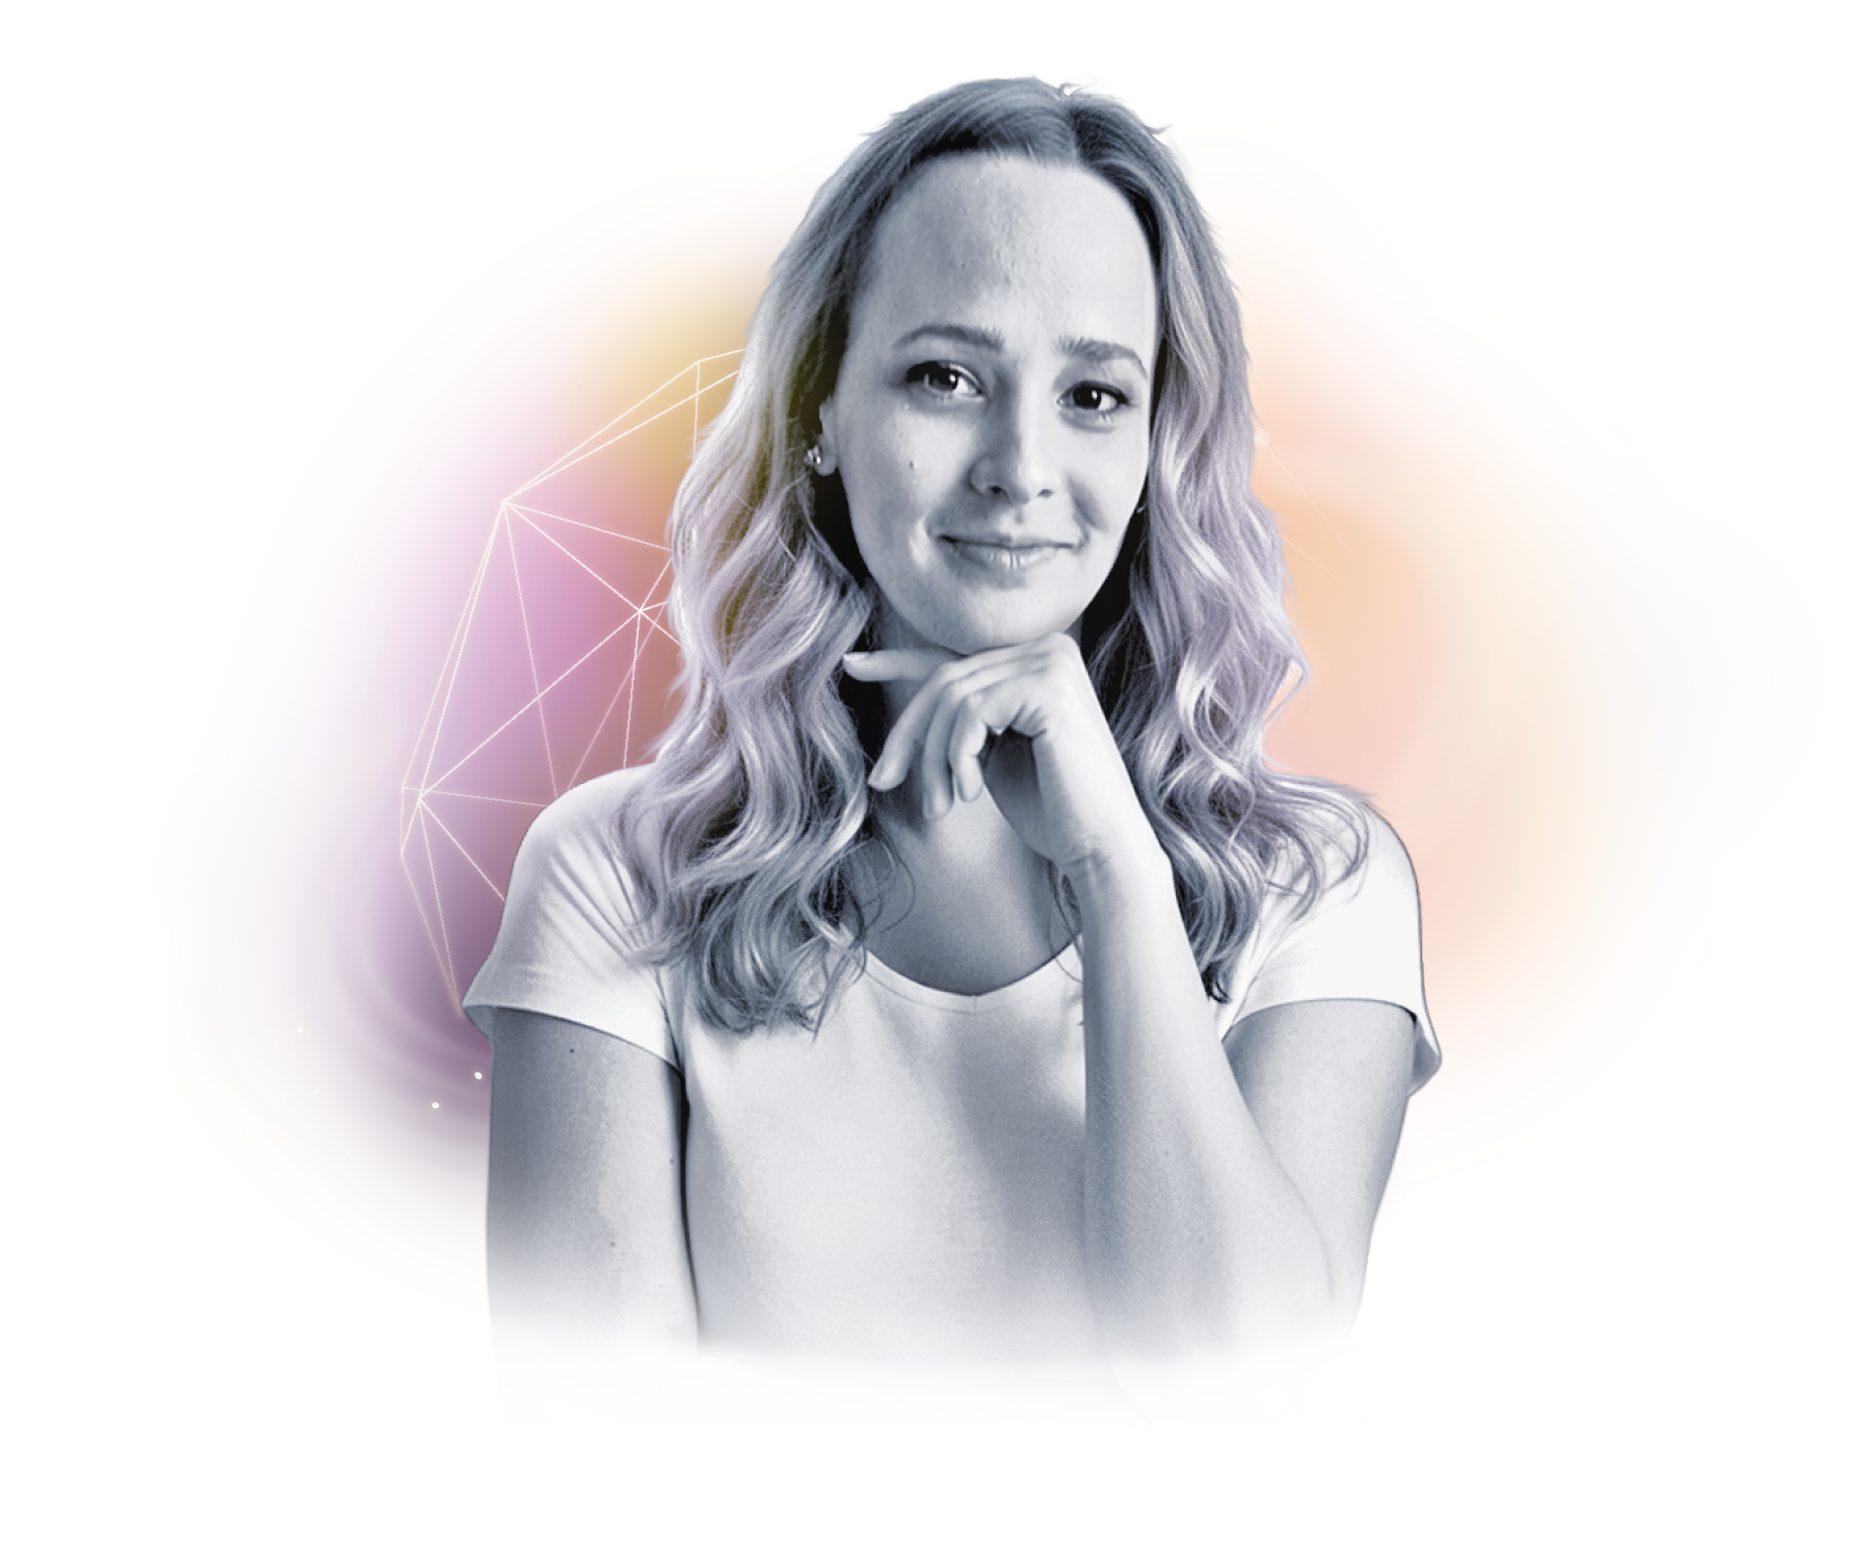
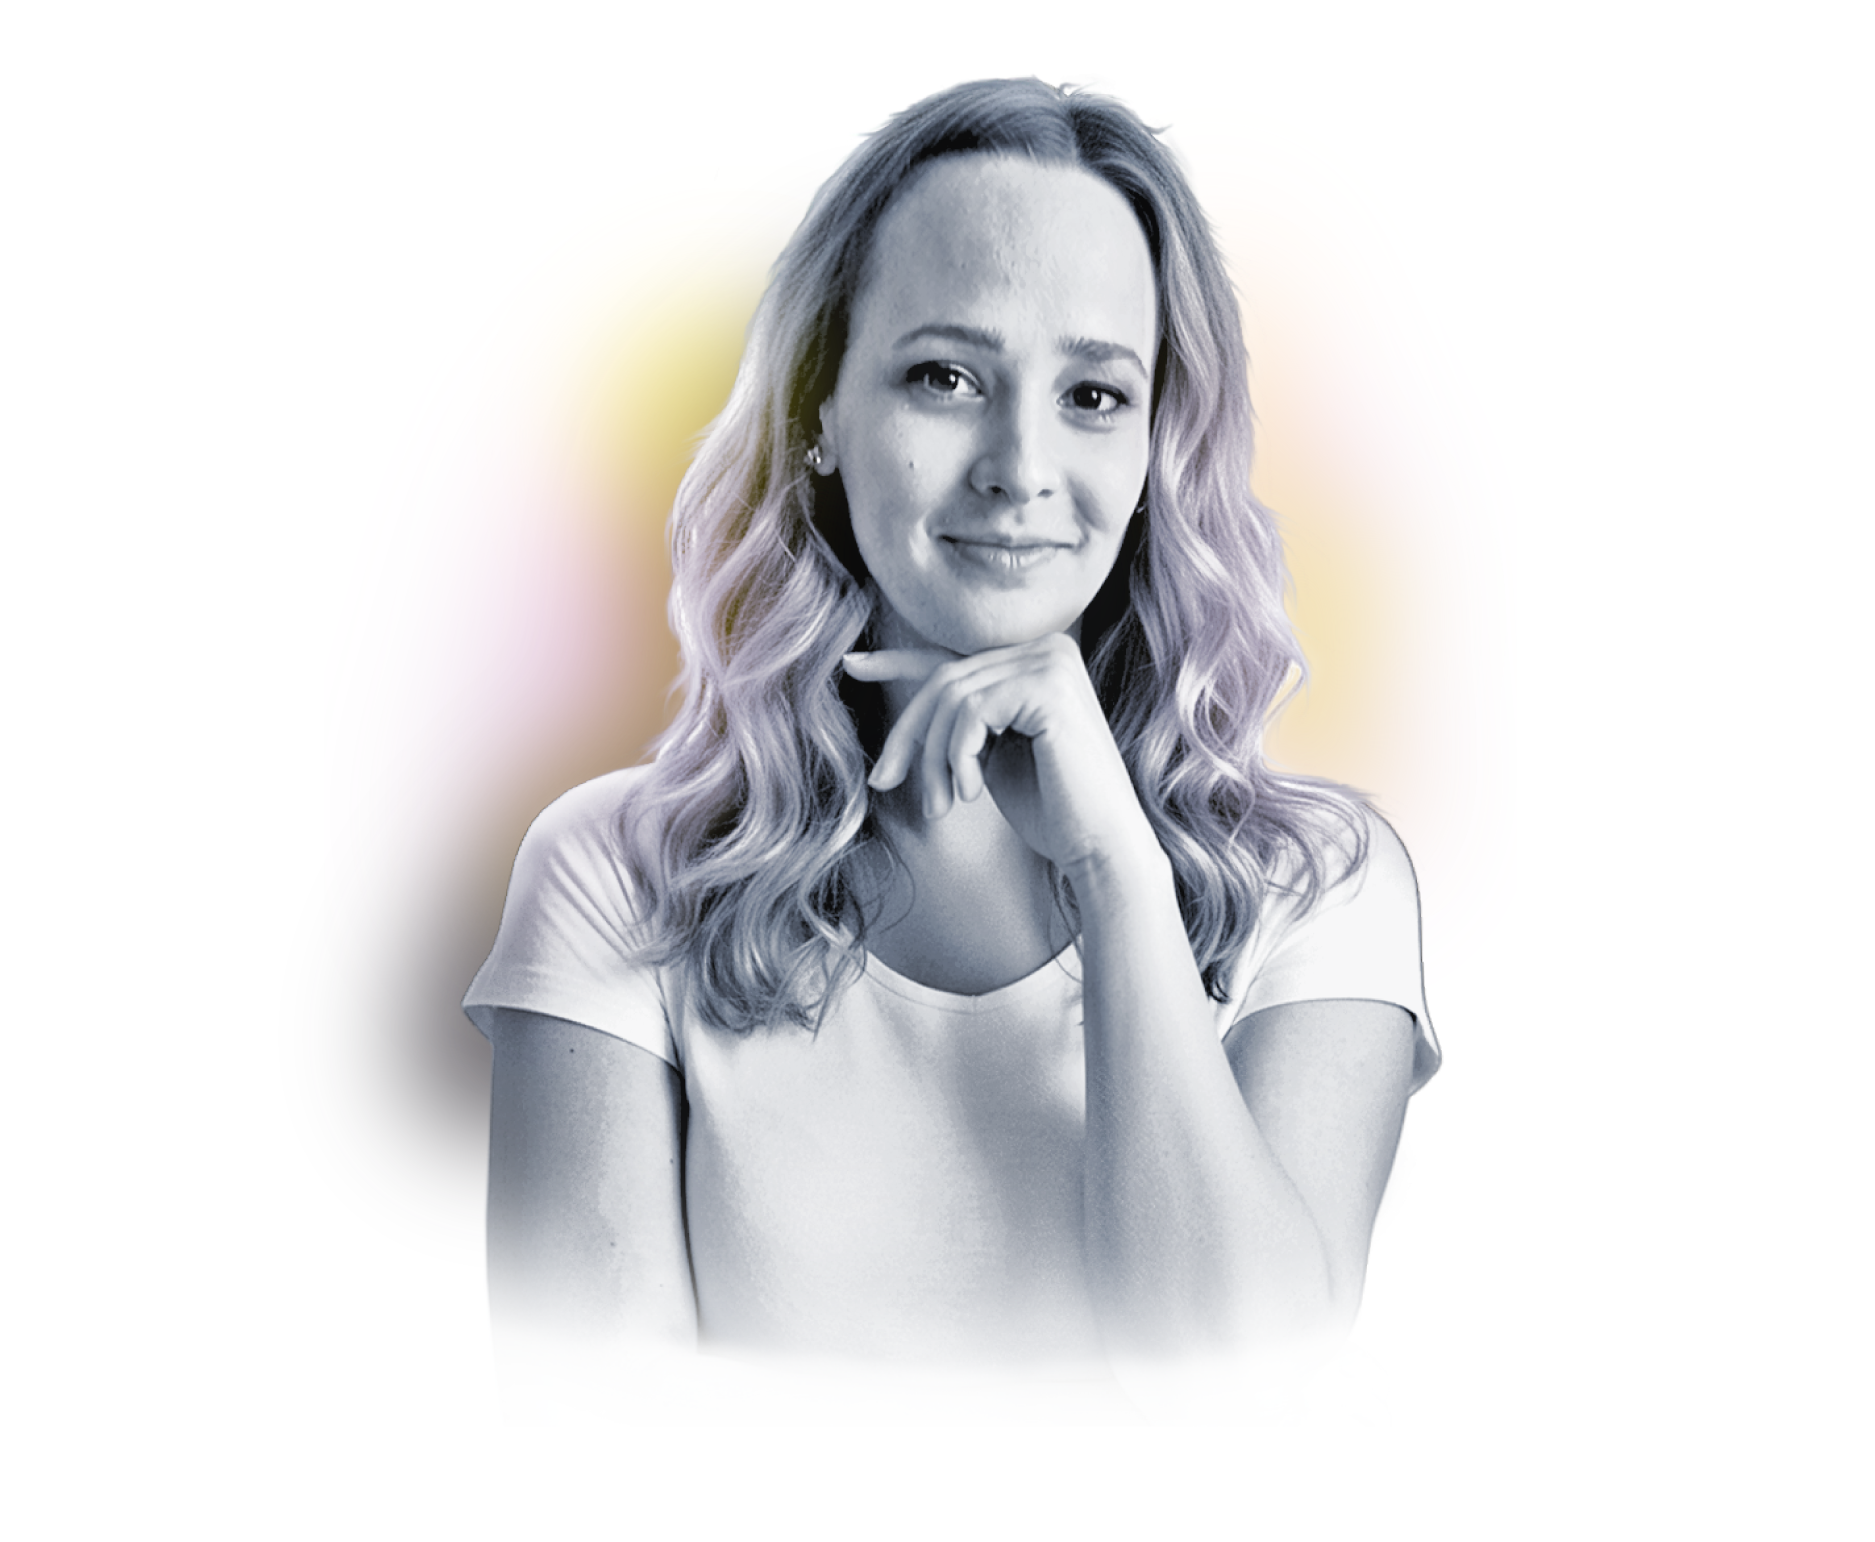
oprava vrstev

Changed region(s): [[0.1547, 0.249, 0.3712, 0.6848], [0.7115, 0.3113, 0.8661, 0.6537]]

diff --git a/scss/sections/_hero.scss b/scss/sections/_hero.scss
@@ -64,62 +64,72 @@ h1 {
 .hero_motiv {
   position: relative;
   isolation: isolate;
-  height: 225px;
+  width: 230px;
   aspect-ratio: 1 / 1;
 
   .person {
     position: absolute;
-    z-index: 1;
+    // z-index: 1;
     inset: 0px;
+    // transform: scale(1.2);
     .person_wrapper {
       position: absolute;
       inset: 0px;
       pointer-events: none;
       filter: drop-shadow(-10px 0px 10px c.$DarkShadow);
-      background: url("/assets/pictures/profilovka.png") left center / contain
+      background: url("/assets/pictures/planet.png") left center / contain
         no-repeat;
-      transform: scale(1.2);
+      z-index: 1;
+
       .wireframe {
         position: absolute;
-        inset: 0px;
-        background: url("../assets/pictures/wireframe.png") center / contain
+        inset: -0px;
+        background: url("/assets/pictures/wireframe.png") center / contain
           no-repeat;
         opacity: 0.9;
-        z-index: 2;
         animation: wireGlow 3s ease-in-out infinite;
         will-change: transform;
+        z-index: 2;
+      }
+
+      .profilovka {
+        position: absolute;
+        inset: 0px;
+        background: url("/assets/pictures/profilovka.png") left center / contain
+          no-repeat;
+        opacity: 1;
+        z-index: 3;
       }
 
       .filtr {
         position: absolute;
         inset: 0px;
         background: url("/assets/pictures/filtr.png") center / contain no-repeat;
-        z-index: 3;
+        z-index: 4;
         opacity: 0.6;
       }
     }
   }
+}
 
-  .prstenec {
-    position: absolute;
-    inset: 0px;
-    background: url("../assets/pictures/prstenec.png") center / contain
-      no-repeat;
-    opacity: 1;
-    z-index: 4;
-    animation: gentleFloat 8s ease-in-out infinite;
-    will-change: transform;
-  }
+.prstenec {
+  position: absolute;
+  transform: scale(1.1);
+  inset: 0 -25px 0 0;
+  background: url("../assets/pictures/prstenec.png") center / contain no-repeat;
+  opacity: 1;
+  animation: gentleFloat 8s ease-in-out infinite;
+  will-change: transform;
+}
 
-  .mlha {
-    position: absolute;
-    inset: -30px;
-    background: url("/assets/pictures/mlha.png") center / contain no-repeat;
-    z-index: 5;
-    opacity: 1;
-    animation: lightSway 15s ease-in-out infinite;
-    will-change: transform;
-  }
+.mlha {
+  position: absolute;
+  inset: -20px;
+  background: url("/assets/pictures/mlha.png") center / contain no-repeat;
+  // z-index: 4;
+  opacity: 0.7;
+  animation: lightSway 15s ease-in-out infinite;
+  will-change: transform;
 }
 
 .button {
@@ -240,35 +250,35 @@ h1 {
   }
 }
 
-@keyframes gentleFloat {
-  0% {
-    transform: translateY(30px);
-  }
+// @keyframes gentleFloat {
+//   0% {
+//     transform: translateX(0px);
+//   }
 
-  50% {
-    transform: translateY(40px);
-  }
+//   50% {
+//     transform: translateX(20px);
+//   }
 
-  100% {
-    transform: translateY(30px);
-  }
-}
+//   100% {
+//     transform: translateX(0px);
+//   }
+// }
 
 @media (min-width: b.$tabletBreakPoint) {
   .hero {
-    padding-top: 10vh;
+    padding-top: 15vh;
   }
 
   .hero_content {
     display: grid;
-    grid-template-columns: minmax(0, 1fr) minmax(0, 0.7fr);
+    grid-template-columns: minmax(0, 1.3fr) minmax(0, 1fr);
   }
 
   .hero_Text {
     .text {
       align-items: start;
       max-width: 220px;
-      transform: translateX(-50px);
+      // transform: translateX(-50px);
     }
   }
 
@@ -278,19 +288,28 @@ h1 {
 
   .design_frontend {
     font-size: s.$HeroScaleDesign;
-    margin-inline-start: 10px;
+    // margin-inline-start: 10px;
   }
 
   .design_a_kod {
     font-size: s.$HeroScaleKod;
     letter-spacing: 0.02em;
-    margin-inline-start: 22px;
+    // margin-inline-start: 22px;
   }
 
   .hero_motiv {
     width: s.$HeroMotiv;
-    justify-self: end;
-    max-height: 340px;
+    // justify-self: end;
+    // max-height: 340px;
+
+    .person_wrapper {
+      transform: scale(none);
+    }
+
+    .prstenec {
+      transform: scale(1.3);
+      inset: 0 -25px 0 0;
+    }
   }
 
   .button {

diff --git a/scss/variables/_hero_scale.scss b/scss/variables/_hero_scale.scss
@@ -1,5 +1,5 @@
 $HeroScaleName: clamp(23px, calc(18.4px + 0.6vw), 27px);
 $HeroScaleDesign: clamp(17px, calc(12.4px + 0.6vw), 21px);
 $HeroScaleKod: clamp(19px, calc(15.6px + 0.45vw), 22px);
-$HeroMotiv: clamp(370px, calc(278.6px + 11.9vw), 450px);
+$HeroMotiv: clamp(230px, calc(278.6px + 11.9vw), 450px);
 $HeroButton: clamp(180px, calc(157px + 3vw), 200px);

diff --git a/index.html b/index.html
@@ -106,6 +106,7 @@
           <div class="hero_motiv">
             <div class="person">
               <div class="person_wrapper">
+                <div class="profilovka"></div>
                 <div class="wireframe"></div>
                 <div class="filtr"></div>
               </div>
